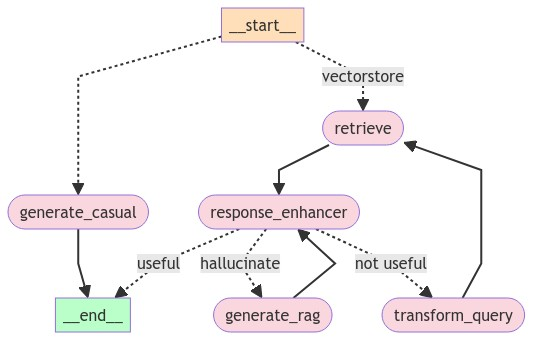
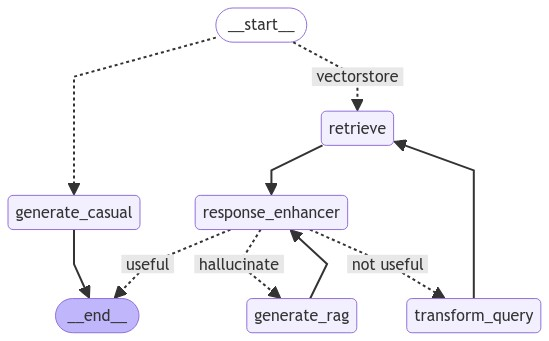
Added pytests + changed model to gpt-4o-mini

diff --git a/main.py b/main.py
@@ -51,14 +51,17 @@ def main():
     url_list = [url.strip() for url in urls.split('\n') if url.strip()]
 
     
-    if not url_list:
-        st.warning("Error, no links")
-    else:
-        with st.expander(f"View Processing URLs ({len(url_list)})"):
-            st.write(f"Processing {len(url_list)} URLs:")
-            for url in url_list:
-                st.write(url)
-            setup_agent_urls(url_list)
+    
+    if process:
+        if not url_list:
+            st.warning("Error, no links")
+        else:
+            st.session_state.urls = url_list  # Update the session state
+            with st.expander(f"View Processing URLs ({len(url_list)})"):
+                st.write(f"Processing {len(url_list)} URLs:")
+                for url in url_list:
+                    st.write(url)
+                setup_agent_urls(url_list)
         
 
     # Handle user input and display conversation using chat_message
@@ -89,10 +92,6 @@ def main():
             with st.chat_message("Human"):
                 st.markdown(message.content)
 
-def read_urls_from_file(file_path):
-    with open(file_path, 'r') as file:
-        return [url.strip() for url in file if url.strip()]
-    
 def add_custom_css():
     custom_css = """
     <style>
@@ -126,7 +125,6 @@ def handle_user_input(user_question):
         'urls' : st.session_state.urls,  
         'chat_history': st.session_state.chat_history  
         }
-       
         
         result = app.invoke({"question": user_question, "session_state" : session_state})
       
@@ -148,23 +146,20 @@ def process_documents(urls: list):
     return query_engine
 
 
-# old implementation
-def setup_agent(uploaded_files):
-
-    llm = OpenAI(model="gpt-4-turbo", temperature=0)
-
-    temp_dir = './temp/'
-    if not os.path.exists(temp_dir):
-        os.makedirs(temp_dir)
-    
-    file_paths = [save_file(uploaded_file, temp_dir) for uploaded_file in uploaded_files]
-    file_to_tools_dict = {file_path: get_doc_tools(file_path, Path(file_path).stem) for file_path in file_paths}
+# # old implementation
+# def setup_agent(uploaded_files):
+#     llm = OpenAI(model="gpt-4-turbo", temperature=0
+#     temp_dir = './temp/'
+#     if not os.path.exists(temp_dir):
+#         os.makedirs(temp_dir)
+#     file_paths = [save_file(uploaded_file, temp_dir) for uploaded_file in uploaded_files]
+#     file_to_tools_dict = {file_path: get_doc_tools(file_path, Path(file_path).stem) for file_path in file_paths}
    
-    initial_tools = [tool for tools in file_to_tools_dict.values() for tool in tools]
-    agent_worker = FunctionCallingAgentWorker.from_tools(initial_tools, llm=llm, verbose=True)
+#     initial_tools = [tool for tools in file_to_tools_dict.values() for tool in tools]
+#     agent_worker = FunctionCallingAgentWorker.from_tools(initial_tools, llm=llm, verbose=True)
 
-    st.session_state.agent = AgentRunner(agent_worker)
-    st.write("Agent is set up and ready to answer questions.")
+#     st.session_state.agent = AgentRunner(agent_worker)
+#     st.write("Agent is set up and ready to answer questions.")
 
 
 def setup_agent_urls(urls):
@@ -176,21 +171,6 @@ def setup_agent_urls(urls):
     st.session_state.query_engine = query_engine
     
 
-
-
-
-def save_file(uploaded_file, temp_dir):
-    file_path = os.path.join(temp_dir, uploaded_file.name)
-    # Check if the file already exists and delete it if it does
-    if os.path.exists(file_path):
-        os.remove(file_path)
-        logging.info(f"Deleted existing file: {file_path}")
-    with open(file_path, "wb") as f:
-        f.write(uploaded_file.getvalue())
-    logging.info(f"Processed uploaded file: {uploaded_file.name}")
-    return file_path
-
-    
 
 
 
@@ -216,8 +196,6 @@ def return_sources(response):
                 }
                 sources.append(file_info)
                 print(f"Source Document: {file_info}")
-
-
         return None
     
     return sources

diff --git a/test_main.py b/test_main.py
@@ -1,0 +1,92 @@
+import pytest
+from unittest.mock import patch, MagicMock
+import streamlit as st
+from langchain.schema import AIMessage
+
+class MockSessionState(dict):
+    def __getattr__(self, name):
+        if name not in self:
+            self[name] = None
+        return self[name]
+
+    def __setattr__(self, name, value):
+        self[name] = value
+
+@pytest.fixture(scope="module")
+def main_module():
+    with patch('main.app'), \
+         patch('main.OpenAI'), \
+         patch('main.SimpleWebPageReader'), \
+         patch('main.SummaryIndex'):
+        import main
+        yield main
+
+@pytest.fixture
+def mock_streamlit():
+    session_state = MockSessionState()
+    mock_sidebar = MagicMock()
+    mock_sidebar.__enter__ = MagicMock()
+    mock_sidebar.__exit__ = MagicMock()
+    with patch('streamlit.text_area') as mock_text_area, \
+         patch('streamlit.button') as mock_button, \
+         patch('streamlit.chat_input') as mock_chat_input, \
+         patch('streamlit.session_state', session_state), \
+         patch('streamlit.sidebar', return_value=mock_sidebar) as mock_sidebar_func, \
+         patch('streamlit.expander') as mock_expander, \
+         patch('streamlit.warning') as mock_warning, \
+         patch('streamlit.write') as mock_write, \
+         patch('streamlit.title') as mock_title, \
+         patch('streamlit.subheader') as mock_subheader:
+        yield {
+            'text_area': mock_text_area,
+            'button': mock_button,
+            'chat_input': mock_chat_input,
+            'session_state': session_state,
+            'sidebar': mock_sidebar,
+            'expander': mock_expander,
+            'warning': mock_warning,
+            'write': mock_write,
+            'title': mock_title,
+            'subheader': mock_subheader
+        }
+
+def test_url_input_processing_single_url(mock_streamlit, main_module):
+    mock_streamlit['text_area'].return_value = "https://example.com"
+    mock_streamlit['button'].return_value = True
+    mock_streamlit['chat_input'].return_value = None  # No user input
+    
+    main_module.main()
+    assert mock_streamlit['session_state'].urls == ["https://example.com"]
+
+def test_url_input_processing_multiple_urls(mock_streamlit, main_module):
+    mock_streamlit['text_area'].return_value = "https://example.com\nhttps://test.com"
+    mock_streamlit['button'].return_value = True
+    mock_streamlit['chat_input'].return_value = None  # No user input
+    
+    main_module.main()
+    assert mock_streamlit['session_state'].urls == ["https://example.com", "https://test.com"]
+
+def test_url_input_processing_empty(mock_streamlit, main_module):
+    mock_streamlit['text_area'].return_value = ""
+    mock_streamlit['button'].return_value = True
+    mock_streamlit['chat_input'].return_value = None  # No user input
+    
+    main_module.main()
+    mock_streamlit['warning'].assert_called_once_with("Error, no links")
+
+def test_url_input_processing_whitespace(mock_streamlit, main_module):
+    mock_streamlit['text_area'].return_value = "   \n  \n  "
+    mock_streamlit['button'].return_value = True
+    mock_streamlit['chat_input'].return_value = None  # No user input
+    
+    main_module.main()
+    mock_streamlit['warning'].assert_called_once_with("Error, no links")
+
+def test_url_input_processing_invalid_url(mock_streamlit, main_module):
+    mock_streamlit['text_area'].return_value = "not_a_valid_url"
+    mock_streamlit['button'].return_value = True
+    mock_streamlit['chat_input'].return_value = None  # No user input
+    
+    main_module.main()
+    assert mock_streamlit['session_state'].urls == ["not_a_valid_url"]
+

diff --git a/utils.py b/utils.py
@@ -14,18 +14,11 @@ from llama_index.core.tools import FunctionTool, QueryEngineTool
 from llama_index.core.vector_stores import MetadataFilters, FilterCondition
 from typing import List, Optional
 import textwrap
-
-
-
-
 from llama_index.readers.web import SimpleWebPageReader
-
-
-
 import os 
 import logging
 
-Settings.llm = OpenAI(model="gpt-4-turbo")
+Settings.llm = OpenAI(model="gpt-4o-mini")
 Settings.embed_model = OpenAIEmbedding(model="text-embedding-ada-002")
 
 def create_nodes(file_path):
@@ -36,9 +29,6 @@ def create_nodes(file_path):
     It includes management, descriptions, and other relevant disclosures.
     Be precise while answering the questions.
     Always provide reasoning over your answer, providing sources and all the relevant information that led to this answer"""
-
-
-
 
     # instruction = """The provided document is a financial report of a large company.
     # This form provides detailed financial information about the company's performance.
@@ -71,10 +61,6 @@ def create_nodes(file_path):
 
 
     
-
-
-
-
 def create_vector_index(file_path):
 
     nodes = create_nodes(file_path)

diff --git a/cred.py b/cred.py
@@ -9,7 +9,7 @@ def setup_environment():
     
     #os.environ["QDRANT_URL"] = os.getenv("QDRANT_URL")
     #os.environ["QDRANT_API_KEY"] = os.getenv("QDRANT_API_KEY")
-    os.environ["LLAMA_PARSE"] = os.getenv("LLAMA_PARSE")
+    #os.environ["LLAMA_PARSE"] = os.getenv("LLAMA_PARSE")
     os.environ["OPENAI_API_KEY"] = os.getenv("OPENAI_API_KEY")
     os.environ["LANGCHAIN_TRACING_V2"] = "true"
     os.environ["LANGCHAIN_PROJECT"] = "TEMUS TEST"

diff --git a/conftest.py b/conftest.py
@@ -1,0 +1,14 @@
+import pytest
+from unittest.mock import patch
+import os
+
+@pytest.fixture(autouse=True, scope="session")
+def mock_env_vars():
+    mock_env = {
+        "OPENAI_API_KEY": "dummy_api_key",
+        "LLAMA_PARSE": "dummy_llama_parse_key",
+        "LANGCHAIN_API_KEY": "dummy_langchain_key",
+        "LLAMA_CLOUD_API_KEY": "dummy_llama_cloud_key"
+    }
+    with patch.dict(os.environ, mock_env, clear=True):
+        yield

diff --git a/app/chains/retrieval_grader.py b/app/chains/retrieval_grader.py
@@ -2,7 +2,7 @@ from langchain_core.prompts import ChatPromptTemplate
 from langchain_core.pydantic_v1 import BaseModel, Field
 from langchain_openai import ChatOpenAI
 
-llm = ChatOpenAI(model = "gpt-4o", temperature=0)
+llm = ChatOpenAI(model = "gpt-4o-mini", temperature=0)
 
 # Data model
 class GradeDocuments(BaseModel):

diff --git a/app/chains/enhancer.py b/app/chains/enhancer.py
@@ -4,7 +4,7 @@ from langchain_core.output_parsers import StrOutputParser
 
 ### Answer enhancer
 
-llm = ChatOpenAI(model="gpt-4o", temperature=0)
+llm = ChatOpenAI(model="gpt-4o-mini", temperature=0)
 
 
 # Prompt
